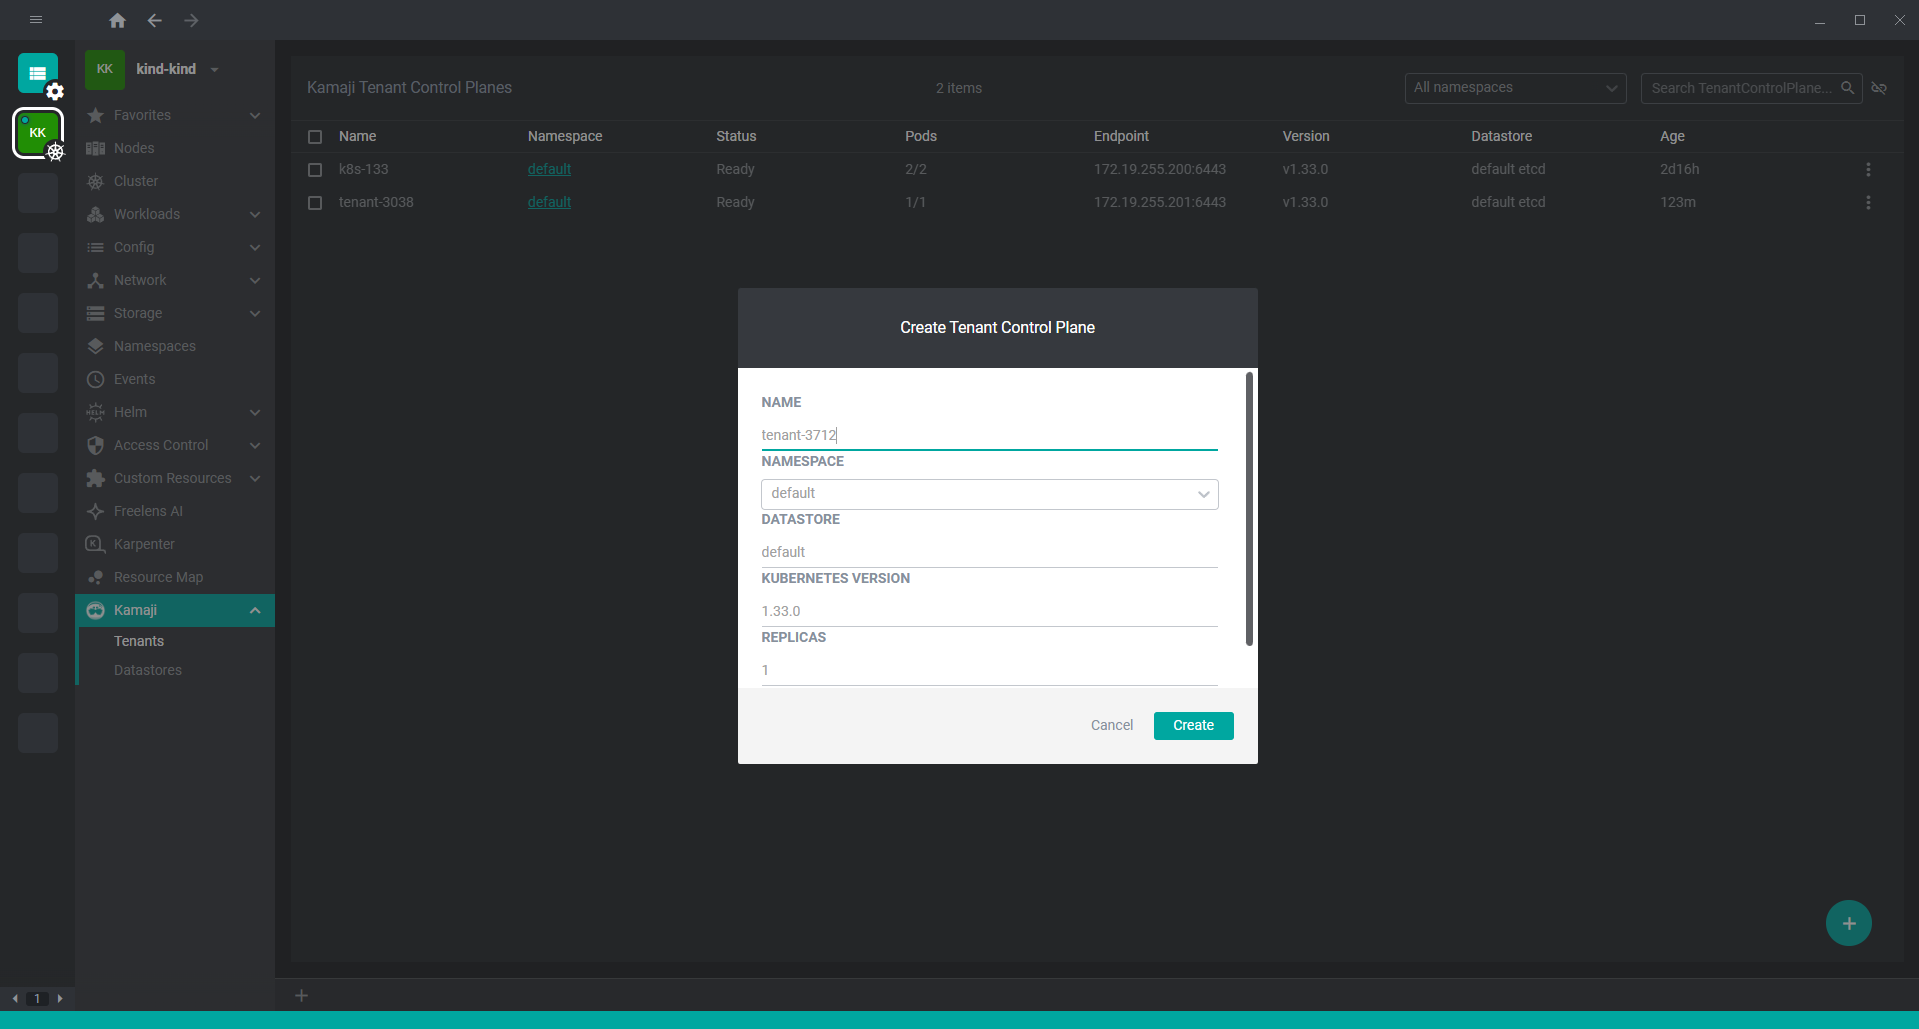
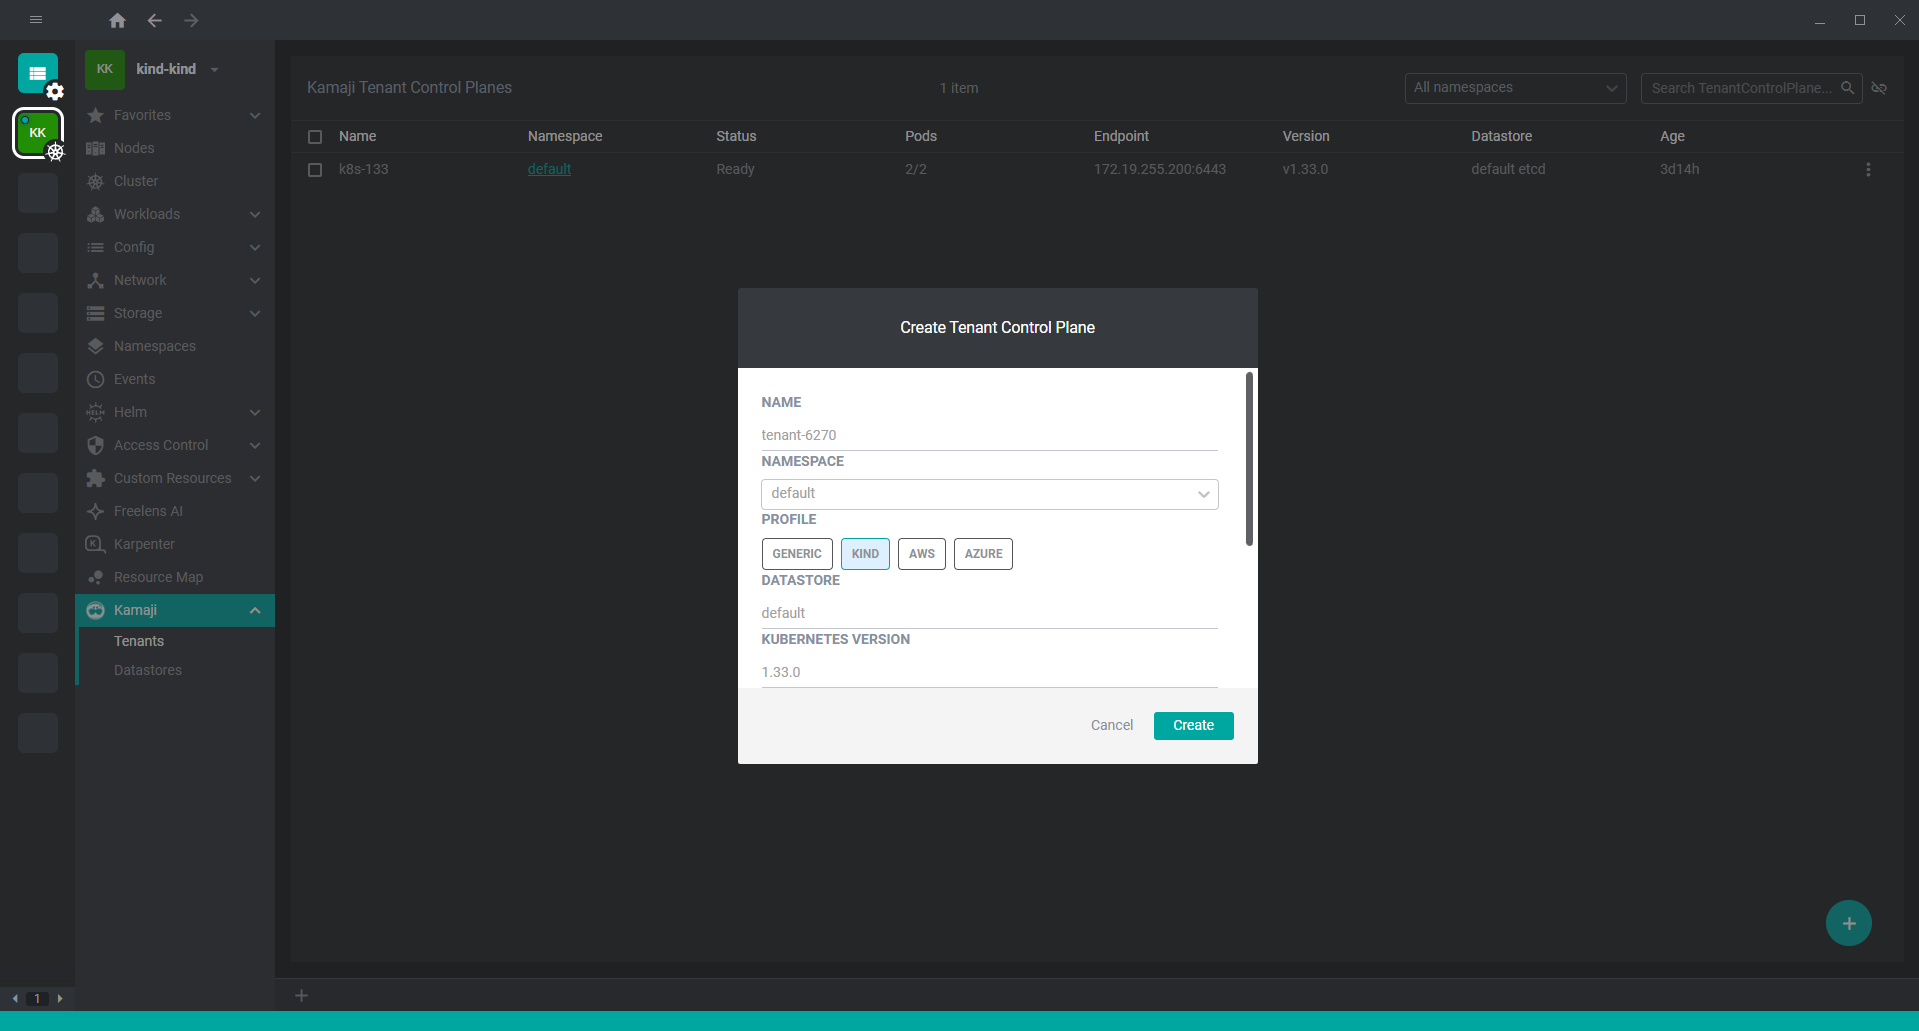
fix readme tenant create

diff --git a/README.md b/README.md
@@ -42,16 +42,27 @@ Displays Kamaji Tenant Control Planes with key runtime details:
 ![Kamaji Tenant Create Dialog](assets/screenshots/2-tenant-create.png)
 
 Create Tenant Control Planes through a guided form:
-- Name, namespace, and replicas
-- Kubernetes version selection
-- Datastore selection
-- Advanced network fields (Service CIDR, Pod CIDR, DNS)
+
+- **Name**, namespace, and replicas
+- **Kubernetes version** selection
+- **Datastore** selection
+- **Provider profile** presets: Generic, kind, AWS (NLB), Azure (internal LB) —
+  automatically pre-fills service annotations for each provider
+- **Service type** (LoadBalancer, ClusterIP, NodePort)
+- **Advanced section**: API port, Konnectivity port, API address,
+  advertise address, Service CIDR, Pod CIDR, DNS IPs,
+  Certificate SANs, admission controllers,
+  service annotations / labels, deployment node selector
+- **Edit YAML**: toggle a raw YAML editor pre-populated from the form;
+  the YAML is applied as-is when confirmed, allowing full customization
+  beyond what the form exposes
 
 ### Download tenant kubeconfig
 
 ![Kamaji Download Kubeconfig Action](assets/screenshots/3-download-kubeconfig.png)
 
-Download the tenant admin kubeconfig directly from the tenant context menu.
+Download the tenant admin kubeconfig directly from the tenant context menu.  
+Use this kubeconfig to connect Freelens to tenant clusters generated by Kamaji.
 
 ### Datastore details
 